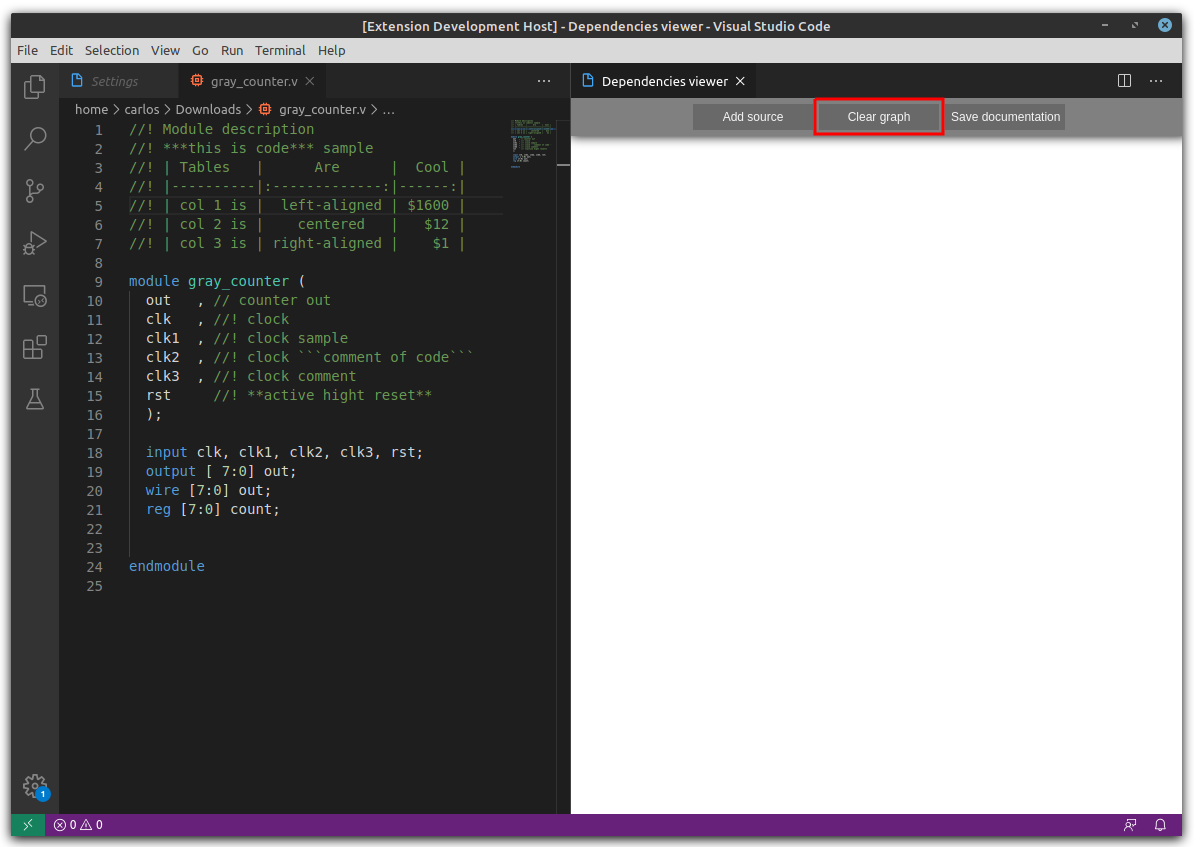
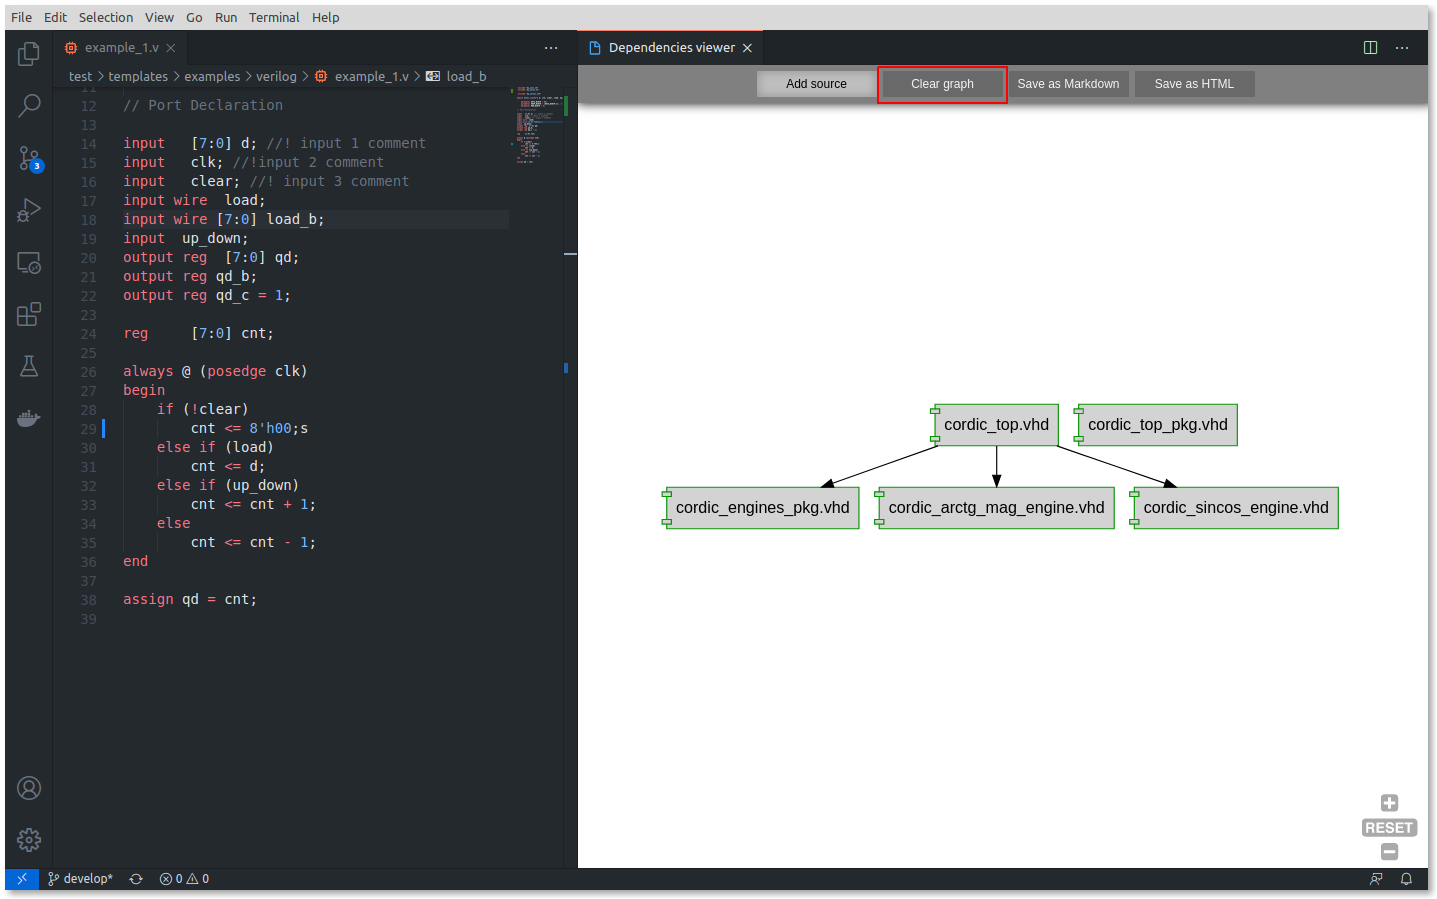
Documentation 005 (#44)
* update readme

Changed region(s): [[0.0, 0.0, 1.0, 1.0]]

diff --git a/README.md b/README.md
@@ -11,7 +11,9 @@
 9. [Formatting](#id9)
 10. [Dependencies viewer](#id10)
 11. [Hover to evaluate binary, hexadecimal and octal values](#id11)
-12. [Future work](#id12)
+12. [Code snippets and grammar](#id12)
+13. [Future work](#id13)
+14. [Similar projects](#id14)
 
 # 1. Introduction <a name="id1"></a>
 
@@ -25,6 +27,7 @@ The goal of TerosHDL is make the FPGA development easier and reliable. It is a p
 - VUnit (https://vunit.github.io/)
 - VSG (https://github.com/jeremiah-c-leary/vhdl-style-guide)
 - Wavedrom (https://github.com/wavedrom/wavedrom)
+- VHDL formatter (https://github.com/g2384/VHDLFormatter)
 
 # 3. Go to definition <a name="id3"></a>
 
@@ -105,6 +108,8 @@ https://observablehq.com/collection/@drom/bitfield
 
 ## Supported linters
 
+You need to install manually the simulators.
+
 |   Verilog | VHDL     |
 | --------: | -------- |
 |  ModelSim | ModelSim |
@@ -114,13 +119,21 @@ https://observablehq.com/collection/@drom/bitfield
 
 ## Configuration
 
+One of the above tools has to be installed to enable linter functionalities in a language. If the tool can not be find in the system path it has to be configured in the plugin config:
+
+Configuration example for verilog:
+
+![alt text](./resources/images/readme/linter_config.png "title")
+
 # 8. Style checking <a name="id8"></a>
 
 ## Supported linters
 
+This is an experimental feature. You need to install Verible (https://github.com/google/verible)
+
 | Verilog | VHDL |
-| ------: | ---- |
-| Verible | VSG  |
+| ------: | :--: |
+| Verible |  --  |
 
 ## Configuration
 
@@ -146,8 +159,12 @@ https://observablehq.com/collection/@drom/bitfield
    ![alt text](./resources/images/readme/sample_dependencies_viewer.png "title")
 4. You can reset your viewer:
    ![alt text](./resources/images/readme/sample_dependencies_clear.png "title")
-5. You can generate the indexed markdown documentation for all the files.
-   ![alt text](./resources/images/readme/sample_dependencies_documentation.png "title")
+5. You can generate the indexed Markdown documentation for all the files.
+   ![alt text](./resources/images/readme/sample_dependencies_documentation_md.png "title")
+6. And the indexed HTML documentation.
+   ![alt text](./resources/images/readme/sample_dependencies_documentation_html.png "title")
+7. Result in HTML format:
+   ![alt text](./resources/images/readme/project_doc.gif "title")
 
 
 # 11. Hover to evaluate binary, hexadecimal and octal values <a name="id11"></a>
@@ -156,5 +173,25 @@ https://observablehq.com/collection/@drom/bitfield
 
 ![alt text](./resources/images/readme/hover_hexadecimal_verilog.png "title")
 
+# 12. Code snippets and grammar <a name="id12"></a>
 
-# 12. Future work
+| Languaje        | Grammar       | Code snippets |
+| ------:         | ----------    | ------------- |
+|  Verilog        | &#x2714;      | &#x2714;      |
+|  System Verilog | &#x2714;      | &#x2714;      |
+|  VHDL           | &#x2714;      | &#x2714;      |
+|  XDC/SDC        | &#x2714;      | &#x2714;      |
+|  ucf            | &#x2714;      | &#x2718;      |
+
+![alt text](./resources/images/readme/code_snippets.gif "title")
+
+# 13. Future work <a name="id13"></a>
+
+- Finite State Machine graph.
+- Project manager.
+- Integrate [triel](https://github.com/TerosTechnology/triel) backend
+
+# 14. Similar projects <a name="id14"></a>
+
+- Hardware Integrated Development Environment ([hide](https://github.com/drom/atom-hide))
+- [APIO-ide](https://github.com/FPGAwars/apio-ide)
